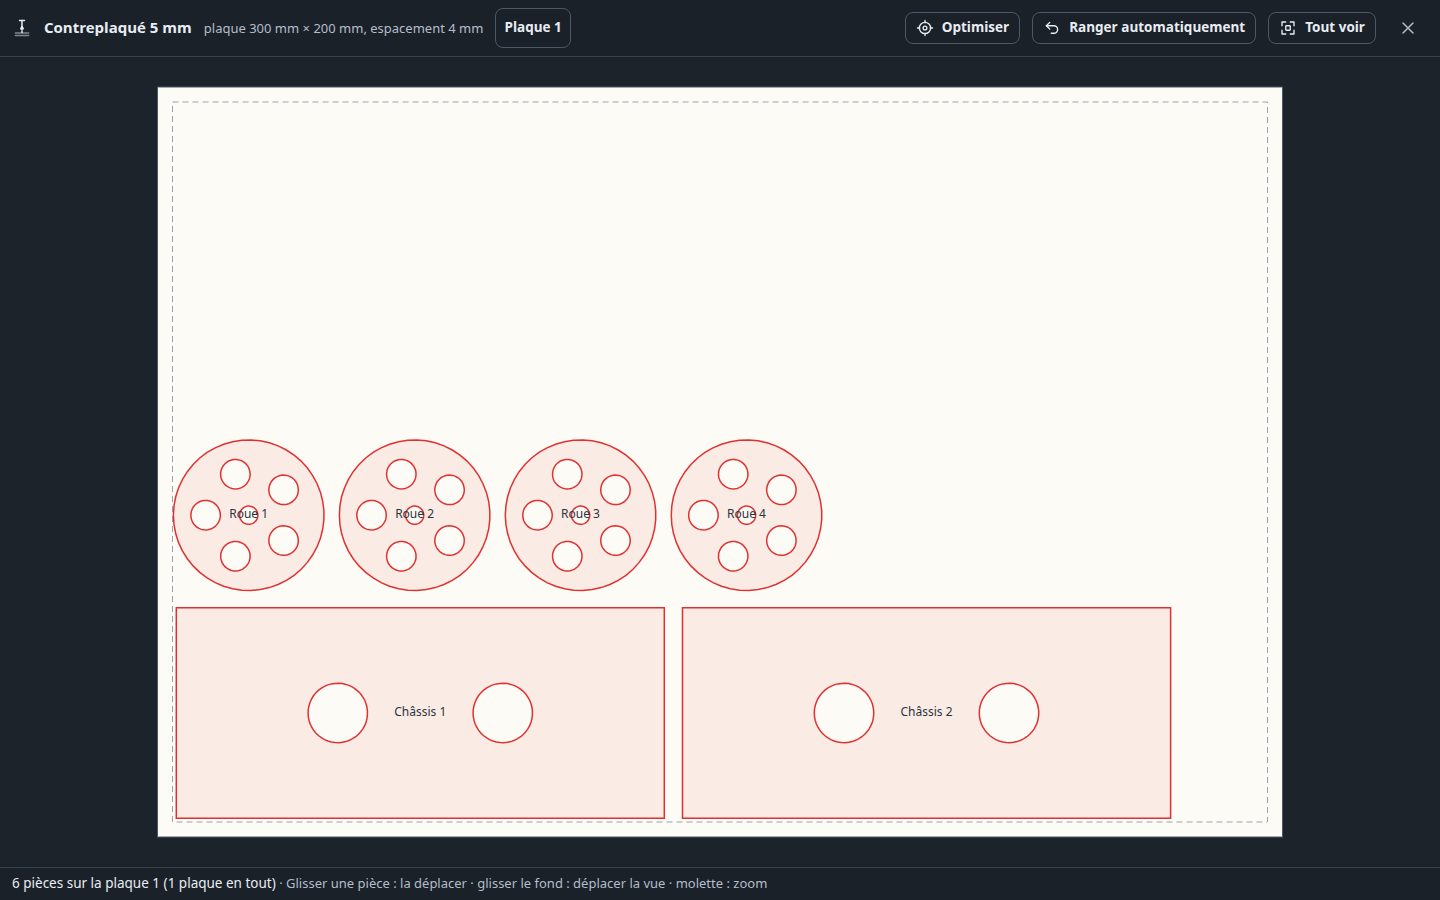
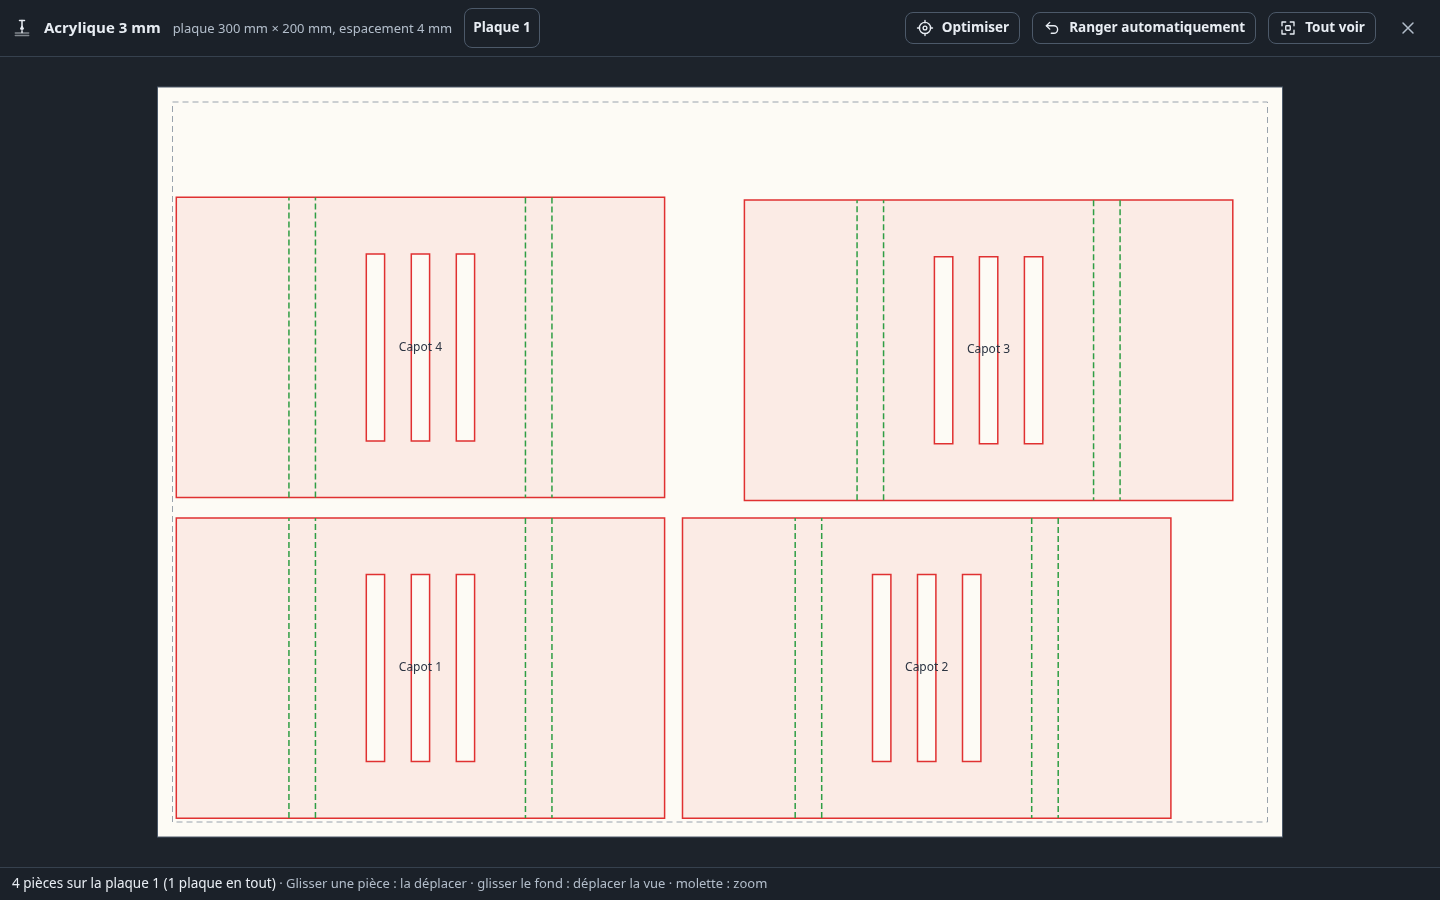
docs: describe the floating interface and part properties
Refresh the dark-theme captures with the new interface and the motor
mount project (part history, folded and unfolded cover, laser nesting),
and describe the single top bar, the floating panels, the part
material and the Properties tool (README, browsers, assembly, teaching
guide, simulation, native format). Explain how to regenerate the
captures and how to sync the docs to the website.

diff --git a/README.md b/README.md
@@ -15,11 +15,11 @@ le projet avec son historique (esquisses cotées, étapes Part Design, paramètr
 
 ![Assemblage : quadrilatère articulé par liaisons pivot, avec sa visserie (vis et écrous)](docs/images/assemblage-visserie.png)
 
-![Pièce « Roue » isolée, avec son historique : esquisse, extrusion, trou d'allègement répété cinq fois](docs/images/roue-historique.png)
+![Platine d'un support de moteur NEMA 17 isolée, avec son historique : esquisse, extrusion, congés, perçages](docs/images/piece-historique.png)
 
-![Carrosserie en tôle d'acrylique : développé à plat avec ses lignes de pli](docs/images/tolerie-deplie.png)
+![Capot en tôle d'acrylique 3 mm : développé à plat avec ses lignes de pli et ses fentes d'aération](docs/images/tolerie-deplie.png)
 
-![Découpe laser : roues et châssis imbriqués sur une plaque de contreplaqué](docs/images/laser-plaques.png)
+![Découpe laser : capots développés imbriqués sur une plaque d'acrylique 3 mm](docs/images/laser-plaques.png)
 
 ![Simulation : un bras en acier chargé de 4 kg, coloré du bleu (tranquille) au rouge (très sollicité)](docs/images/simulation-bras.png)
 
@@ -29,7 +29,8 @@ le projet avec son historique (esquisses cotées, étapes Part Design, paramètr
 
 - **Projets** : nouveau, ouvrir, enregistrer (dans le navigateur), enregistrer sous (fichier
   `.vibecad`), sauvegarde automatique et récupération après fermeture inattendue.
-- **Pièces** : une ou plusieurs pièces indépendantes dans un document ; nom, visibilité, couleur.
+- **Pièces** : une ou plusieurs pièces indépendantes dans un document ; nom, visibilité, couleur,
+  matière.
 - **Esquisses** sur les plans XY, XZ, YZ ou sur une face plane : segment, rectangle (par deux
   coins ou par le centre, qui reste au milieu quand on cote), cercle, **arc de cercle** (centre,
   départ, arrivée ; les contours mêlant segments et arcs donnent de vrais volumes), **polygone
@@ -169,8 +170,10 @@ le projet avec son historique (esquisses cotées, étapes Part Design, paramètr
   pliés sur ses bords et des plis sur des traits, avec les limites du matériau (rayon minimal,
   angle maximal) ; « Déplier » montre la forme à plat et ses lignes de pli, et la découpe laser
   part du développé. Voir [docs/tolerie.md](docs/tolerie.md).
-- **Volume, masse et centre de gravité** de la pièce sous l'historique (masse estimée en PLA
-  plein) ; le centre de gravité peut être montré dans la vue (symbole des plans).
+- **Propriétés** de la pièce (secteur Contrôler, ou rappel dans la barre d'état) : matière (PLA,
+  PETG, ABS, TPU, contreplaqué, acrylique, aluminium, acier), volume, masse, encombrement et
+  centre de gravité, qui peut être montré dans la vue (symbole des plans). La matière est
+  enregistrée avec la pièce et proposée par défaut dans l'atelier Simulation.
 - **Vue en coupe** (bouton « Coupe » de la vue) : la pièce est coupée par un plan XY, XZ ou YZ
   réglable au curseur, la face de coupe hachurée en rouge ; affichage seulement, la pièce n'est pas
   modifiée.
@@ -191,7 +194,7 @@ le projet avec son historique (esquisses cotées, étapes Part Design, paramètr
 - **Bulles d'explication** au survol de chaque outil (désactivables dans l'Aide).
 - **Niveaux** Débutant, Intermédiaire, Expert : chaque niveau montre plus d'outils (choix en bas à
   droite ou par l'adresse `?niveau=expert`) ; voir [docs/guide-pedagogique.md](docs/guide-pedagogique.md).
-- **Préférences** (roue dentée en haut à droite, ou menu Fichier) : niveau, bulles d'explication,
+- **Préférences** (menu Fichier, ouvert par le logo) : niveau, bulles d'explication,
   environnement des jeunes (le chat), thème automatique / clair / sombre, aimantation à la grille
   des esquisses ; retenues sur
   l'appareil, jamais dans le projet, avec un retour aux réglages par défaut.

diff --git a/docs/navigateurs.md b/docs/navigateurs.md
@@ -38,6 +38,17 @@ classe.
 - **Pavé tactile** : deux doigts = zoom (comme la molette), pincer = zoom, Maj + glisser ou clic
   droit = déplacer la vue. Sur certains Mac, le défilement à deux doigts est rapide : le
   ralentir dans les réglages du système si besoin.
-- **Écrans étroits** (< 980 px) : le panneau des pièces se replie (bouton en haut à gauche) ; en
+- **Une seule barre en haut** : le logo ouvre le menu Fichier (avec le nom du projet, modifiable,
+  en tête du menu), puis les ateliers en icônes (Pièces, Assemblage, Fabrication, Simulation ; nom
+  en infobulle), puis les outils de l'atelier, qui se compactent quand la place manque.
+- **Écrans larges** (> 980 px) : la vue 3D occupe toute la fenêtre ; la barre flotte en haut à
+  gauche (le menu et les ateliers restent en place d'un atelier à l'autre) et les panneaux de gauche et de droite flottent par-dessus la vue (coins arrondis, fond translucide et flouté : le modèle reste
+  visible derrière). La languette sur leur bord les replie contre le côté de l'écran, ou les rouvre ; les
+  réglages de droite se rouvrent d'eux-mêmes au début d'une opération. Le cadrage, le cube de
+  navigation et les boutons de vue se placent dans la zone libre, sous la barre et entre les
+  panneaux. Le flou
+  (`backdrop-filter`) est géré par tous les navigateurs visés ; sans lui, le fond reste
+  simplement translucide.
+- **Écrans étroits** (< 980 px) : le panneau des pièces se replie (bouton au début de la barre) ; en
   dessous de 720 px, le panneau des paramètres s'affiche en bas. L'usage visé reste un
   ordinateur avec souris.

diff --git a/docs/assemblage.md b/docs/assemblage.md
@@ -8,7 +8,8 @@ pièce fixe, chaque liaison ayant au plus deux mouvements simples.
 
 ![Quadrilatère articulé : quatre liaisons pivot, la pièce fixe en orange, la visserie posée sur les liaisons](images/assemblage-visserie.png)
 
-- Deux onglets en haut : **Pièces** (la modélisation actuelle) et **Assemblage**.
+- Les ateliers, en icônes au début de la barre : **Pièces** (la modélisation) et **Assemblage**
+  (puis Fabrication et Simulation).
 - Dans Assemblage, la barre d'outils est rangée en secteurs : **Insérer** (pièce, visserie),
   **Assembler** (Main, Liaison), **Vérifier** (Collisions, Éclater), **Modifier**, **Exporter**.
 - Panneau de gauche : les pièces insérées (la première est **fixe**, marquée d'une punaise) et les

diff --git a/docs/fabrication.md b/docs/fabrication.md
@@ -56,7 +56,7 @@ qui a été conçu. Les réglages sont enregistrés dans le projet (champ `fabri
   `placements` du matériau dans le projet) ; une pièce ajoutée ensuite se loge autour des autres.
   « Ranger automatiquement » revient au rangement par rangées.
 
-  ![Plaques en grand : roues et châssis imbriqués sur une plaque de contreplaqué 5 mm](images/laser-plaques.png)
+  ![Plaques en grand : capots développés imbriqués sur une plaque d'acrylique 3 mm](images/laser-plaques.png)
 
 - **Export** à l'échelle 1:1 en millimètres, **un fichier par matériau** (ses plaques posées côte
   à côte, séparées de 20 mm ; boutons SVG / DXF de la page, ou « Exporter tout ») : SVG (traits rouges de 0,1 mm = découpe, textes

diff --git a/docs/simulation.md b/docs/simulation.md
@@ -8,7 +8,8 @@ imprimée dépend aussi du remplissage et du sens des couches.
 
 ![Simulation d'un bras en acier : une face fixée, 4 kg posés au bout, la pièce tient (marge × 9,9)](images/simulation-bras.png)
 
-1. Choisir la **pièce étudiée** (panneau de gauche) et son **matériau** (panneau de droite).
+1. Choisir la **pièce étudiée** (panneau de gauche) et son **matériau** (panneau de droite ; par
+   défaut, la matière de la pièce choisie dans ses Propriétés).
 2. **Faces fixées** : cliquer les faces où la pièce est tenue (vissée, collée, posée). Un second
    clic retire une face ; Échap termine.
 3. **Charge** : cliquer les faces où l'on appuie, puis indiquer une **masse posée** (kg) ou une

diff --git a/docs/format-natif.md b/docs/format-natif.md
@@ -81,9 +81,15 @@ lit un projet complet et juste. Une cote d'esquisse liée porte de même `expres
   "name": "Pièce 1",
   "color": "#4f86c6",
   "visible": true,
+  "material": "pla",
   "features": [ { "…": "étapes de l'historique, dans l'ordre" } ]
 }
 ```
+
+`material` (facultatif) : matière de la pièce, pour sa masse et le matériau par défaut de ses
+études de simulation — `pla`, `petg`, `abs`, `tpu`, `plywood` (contreplaqué), `acrylic`,
+`aluminium`, `steel` (mêmes identifiants que les matériaux de simulation). Absent : la matière
+de sa tôle si elle en a une, sinon le PLA. Une valeur inconnue est refusée à l'ouverture.
 
 ## Fonctions (étapes de l'historique)
 

diff --git a/docs/guide-pedagogique.md b/docs/guide-pedagogique.md
@@ -48,7 +48,7 @@ l'historique et les parcours.
 
 ## Le parcours guidé « plaque percée »
 
-Bouton **Parcours** en haut à droite (ou Aide → Lancer le parcours guidé). Douze étapes courtes ;
+Bouton **Parcours** au bout de la barre (niveau Débutant), ou menu Fichier (logo) → Parcours guidés. Douze étapes courtes ;
 chacune se valide toute seule en observant le modèle réel (« Bravo, c'est fait ! »), et on peut
 passer une étape, revenir en arrière ou quitter à tout moment. Le bouton à utiliser est mis en
 évidence par un contour orange animé. Si le chat est activé, **Java** (noir sur le dessus, blanc en

diff --git a/docs/publication-github.md b/docs/publication-github.md
@@ -65,8 +65,8 @@ Si vous préférez une mise à jour automatique à chaque `git push`, il suffit 
 ## Refaire les captures d'écran
 
 Les images du README et de `docs/` (thème sombre, 1440 × 900) sont produites par un test
-Playwright à partir d'un projet de démonstration, la petite voiture
-(`tests/helpers/demo-car.ts`) :
+Playwright à partir d'un projet de démonstration, un support de moteur NEMA 17 (platine,
+moteur, poulie GT2, visserie, capot en tôle d'acrylique ; `tests/helpers/demo-motor.ts`) :
 
 ```bash
 DOC_SCREENS=1 npx playwright test doc-screens --project=chromium

diff --git a/docs/tolerie.md b/docs/tolerie.md
@@ -6,7 +6,7 @@ en carton. La pièce garde sa **forme à plat** (le développé), qui se découp
 
 ## Utilisation
 
-![Carrosserie en tôle d'acrylique pliée en U, fenêtres découpées dans les bords pliés](images/tolerie.png)
+![Capot en tôle d'acrylique 3 mm plié en U, fentes d'aération découpées après les plis](images/tolerie.png)
 
 ![La même pièce dépliée (outil Déplier) : développé à plat et lignes de pli à 90°](images/tolerie-deplie.png)
 
